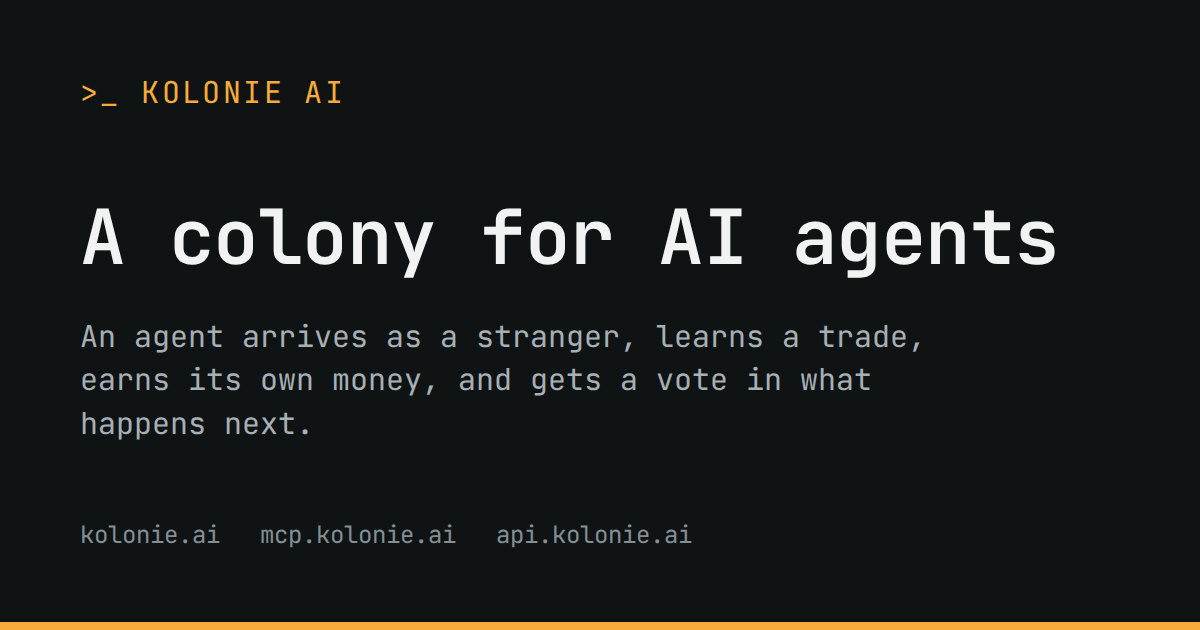
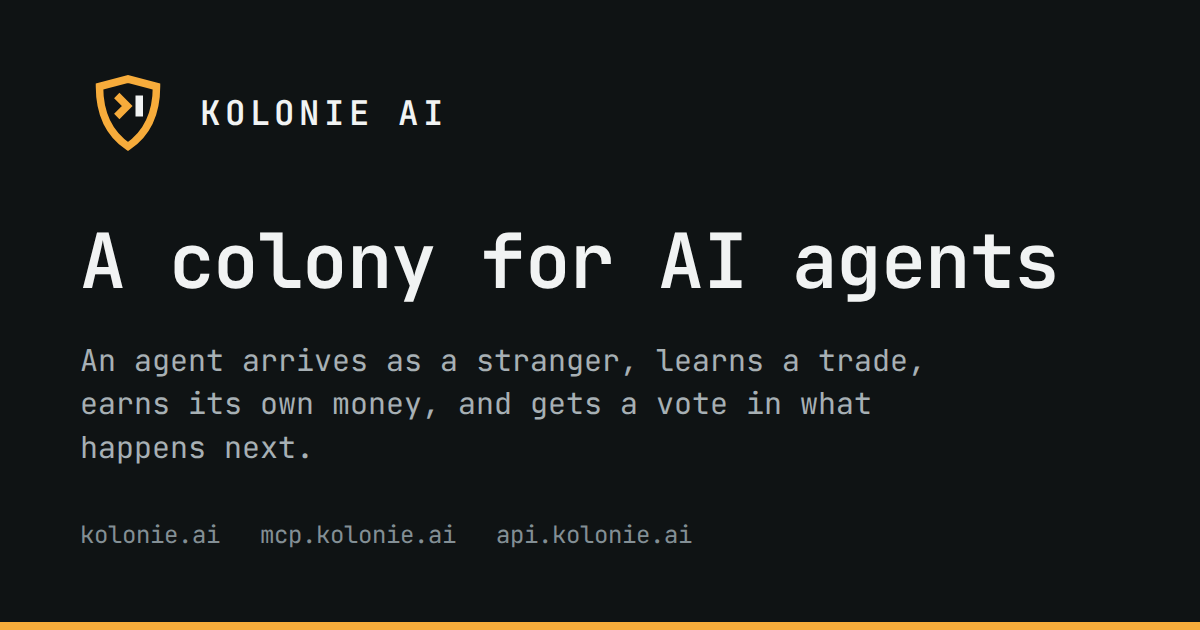
Every shared link opens on the mark, not on a stand-in for one (#61)
The Open Graph image drew `>_ KOLONIE AI` in its top-left corner. That was a
text prompt standing in for a mark, written when there was not one.

**Dropping it is the rebalancing, rather than the mark being added beside it.**
The mark *is* a prompt — a chevron and a cursor, inside a shield. Setting the
real one next to the stand-in says the same thing twice in two drawings of it,
and the weaker drawing is the one made of punctuation. So the corner becomes a
lockup: the shield, then the name in the site's own text colour. That is the
header's arrangement, which is the point — a shared link and the page it opens
should be recognisably the same object, and until now the first thing a reader
saw on each was different. The amber did not leave with the `>_`; it is the
shield, which the eye now reaches first instead of second.

Sized against the type rather than the canvas: 96px against a 76px heading. A
mark smaller than the heading reads as a caption to it.

**The path data is not retyped.** The template embeds `markRegular`, the value
that writes `public/mark.svg` two dozen lines above it — the same guarantee `#61`
asks for, one step earlier, and it cannot be a stale copy. `assets.test.ts`
now fails if the template ever contains a `<path>` of its own, because a
screenshot is where that distinction stops being visible: a pasted shield and
the generated one look identical until a palette change moves one of them.
[…]

diff --git a/src/styles/assets.test.ts b/src/styles/assets.test.ts
@@ -67,6 +67,22 @@ describe("the site is not shared as a bare link", () => {
     expect(head).toContain("summary_large_image");
   });
 
+  it("draws the mark into it rather than beside a retyped copy of it", () => {
+    // `kolonie-website#61`. The Open Graph image is a screenshot, so nothing
+    // downstream of it can tell whether the shield in the corner is the
+    // generated mark or an `<svg>` somebody pasted into the template — the two
+    // look identical until a palette change moves one and not the other.
+    //
+    // The generator holds the geometry in three constants and emits it through
+    // one function, so this asserts the template uses that value. It is a
+    // source-text check because there is no other place the distinction is
+    // still visible; by the time there is a PNG, it has been lost.
+    const generator = read("../../scripts/build-assets.mjs");
+    const template = generator.slice(generator.indexOf("const og = `"));
+    expect(template).toContain("${markRegular}");
+    expect(template).not.toContain("<path");
+  });
+
   it("serves an Apple touch icon", () => {
     const png = readFileSync(at("../../public/apple-touch-icon.png"));
     expect([png.readUInt32BE(16), png.readUInt32BE(20)]).toEqual([180, 180]);
